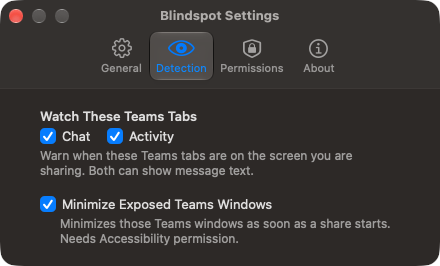
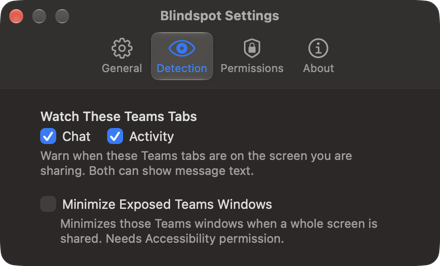
Refresh the Settings screenshots

diff --git a/plan.md b/plan.md
@@ -134,7 +134,7 @@ The script may use the existing local signing identity through Keychain; do not 
 - [x] 5. Clear first-run permissions and safe warning preview: implemented, 95/95 regression checks passed, code review and Codex accepted after three fixes. Minimizing is now opt-in when no choice was stored (old versions stored it only on a checkbox click). The test warning shows only while checks run and nothing is shared. Known limit: the test sound can overlap a real warning's sound within about 1 s. Tests keep their settings under the temp dir, not ~/Library/Preferences. Open for the item 4 call: first-launch Settings flow, the Allow button and prompt, the relaunch hint, the test banner on one and two screens and its refusals, the Accessibility prompt when minimizing is turned on, and the new Settings layout. Item 7 must refresh settings-permissions.png and describe the new Settings text.
 - [x] 6. Reliable Start at Login: implemented, 117/117 regression checks passed, code review accepted with no findings. Codex rejected over one limit. Known limits: if launchctl enable succeeds but the follow-up check fails, the box stays on with "Couldn't check Start at Login."; if a stale plist is repaired and then launchctl enable fails, the box shows off while the repaired plist may still start this copy at the next login (the next Settings open shows the truth). Item 4 caution: do not toggle Start at Login in a temporary test build, or the real login entry will point at it; turn it on again from the real copy afterwards. Open for the item 4 call: a real login after enabling, moving the app and re-enabling, real print-disabled output, and the login label in Settings.
 - [x] 6b. Swift package layout (owner decision), done: code review and Codex accepted after one fix (build.sh keeps compiling with swiftc so the app records the real SDK). Originally planned as: move code from main.swift into a few files under `Sources/Blindspot/` (detection, minimizing, login item, settings, app entry), convert the tests to a `Tests/` target run with `swift test`, and keep `build.sh` producing the same signed `.app`. No behavior changes; all existing checks must still pass. Done before item 7 so the docs describe the final layout.
-- [x] 7. Accurate existing documentation: README, INSTALL, and BUILDING updated; code review and Codex accepted after one round of wording fixes. Open for the owner during the item 4 call: capture warning.png (Show Test Warning banner, dummy content) and refresh settings-general.png, settings-detection.png, and settings-permissions.png; then add a one-line image tag so the README leads with the warning.
+- [x] 7. Accurate existing documentation: README, INSTALL, and BUILDING updated; code review and Codex accepted after one round of wording fixes. Settings screenshots were refreshed on 24 October 2026. No warning screenshot: the banner is excluded from screen capture, so the owner chose to go without one.
 - [x] 8. A simple app icon: assets/Blindspot.icns from assets/make-icon.swift, added by build.sh before signing; code review and Codex accepted with no findings. Open for the item 4 call: how Finder, the Dock, and System Settings show it (they cache icons).
 - [x] 9. Smaller CI permissions and pinned actions: read-only builds, tag-only release job with write access, actions pinned to verified SHAs, macos-26 with Xcode 26.6, swift test in CI; code review and Codex accepted with no findings. Open: the release job runs only on a real v* tag, which needs owner approval.
 - [ ] 10. A personal Homebrew cask: deferred by the owner until after the live test and a new release that includes these fixes.
